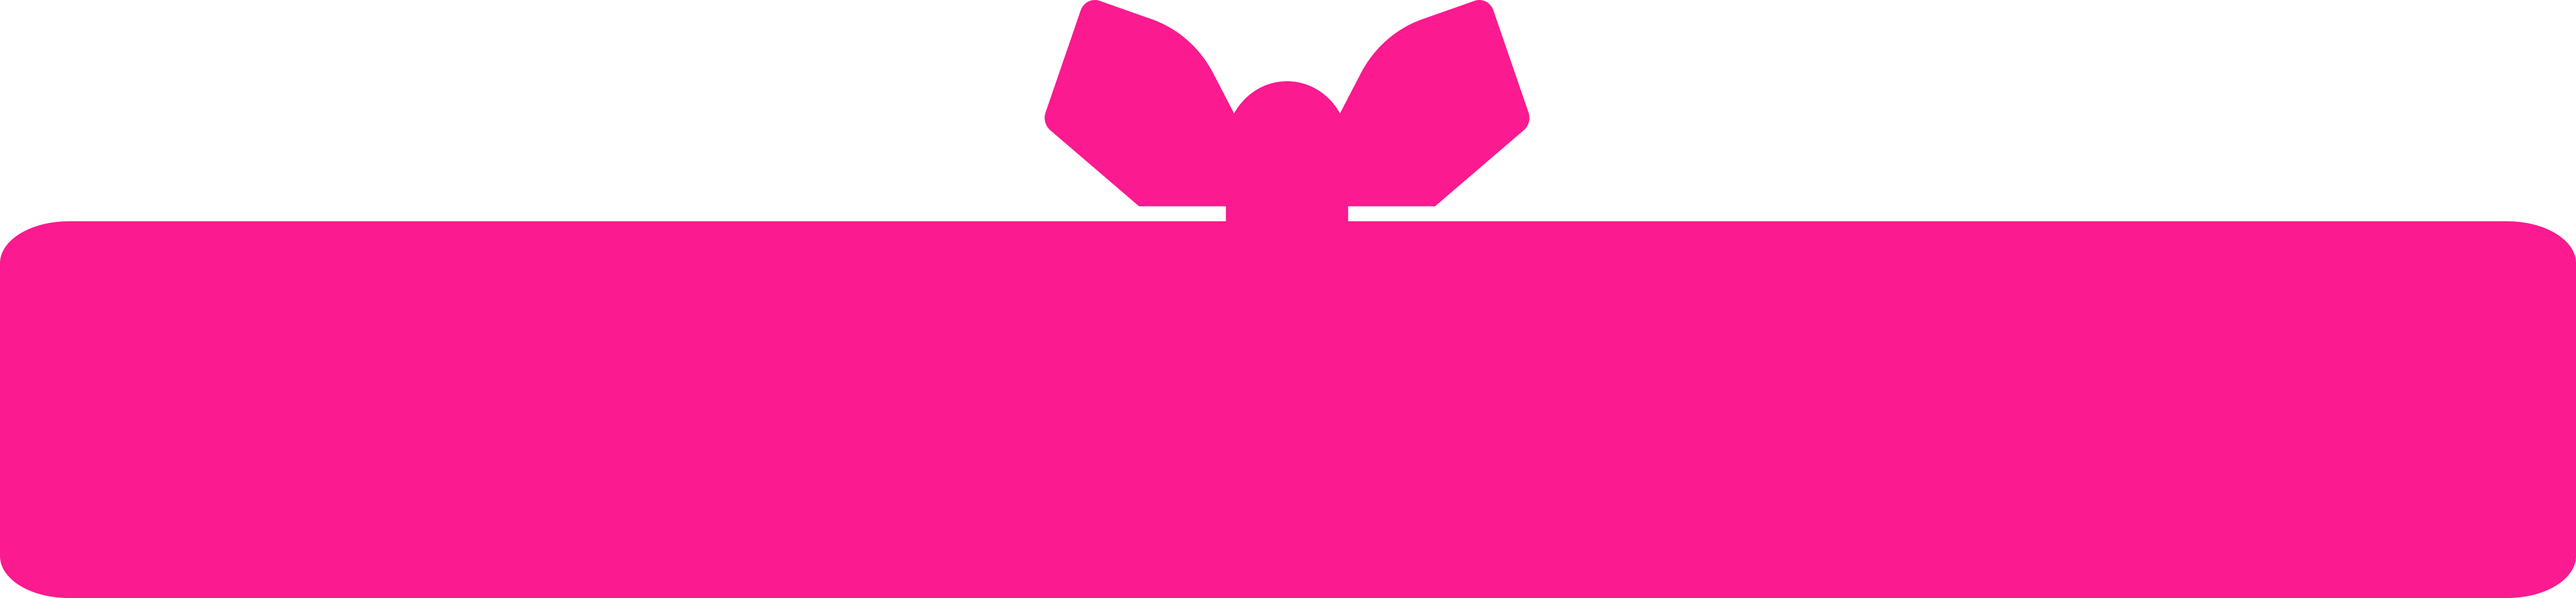
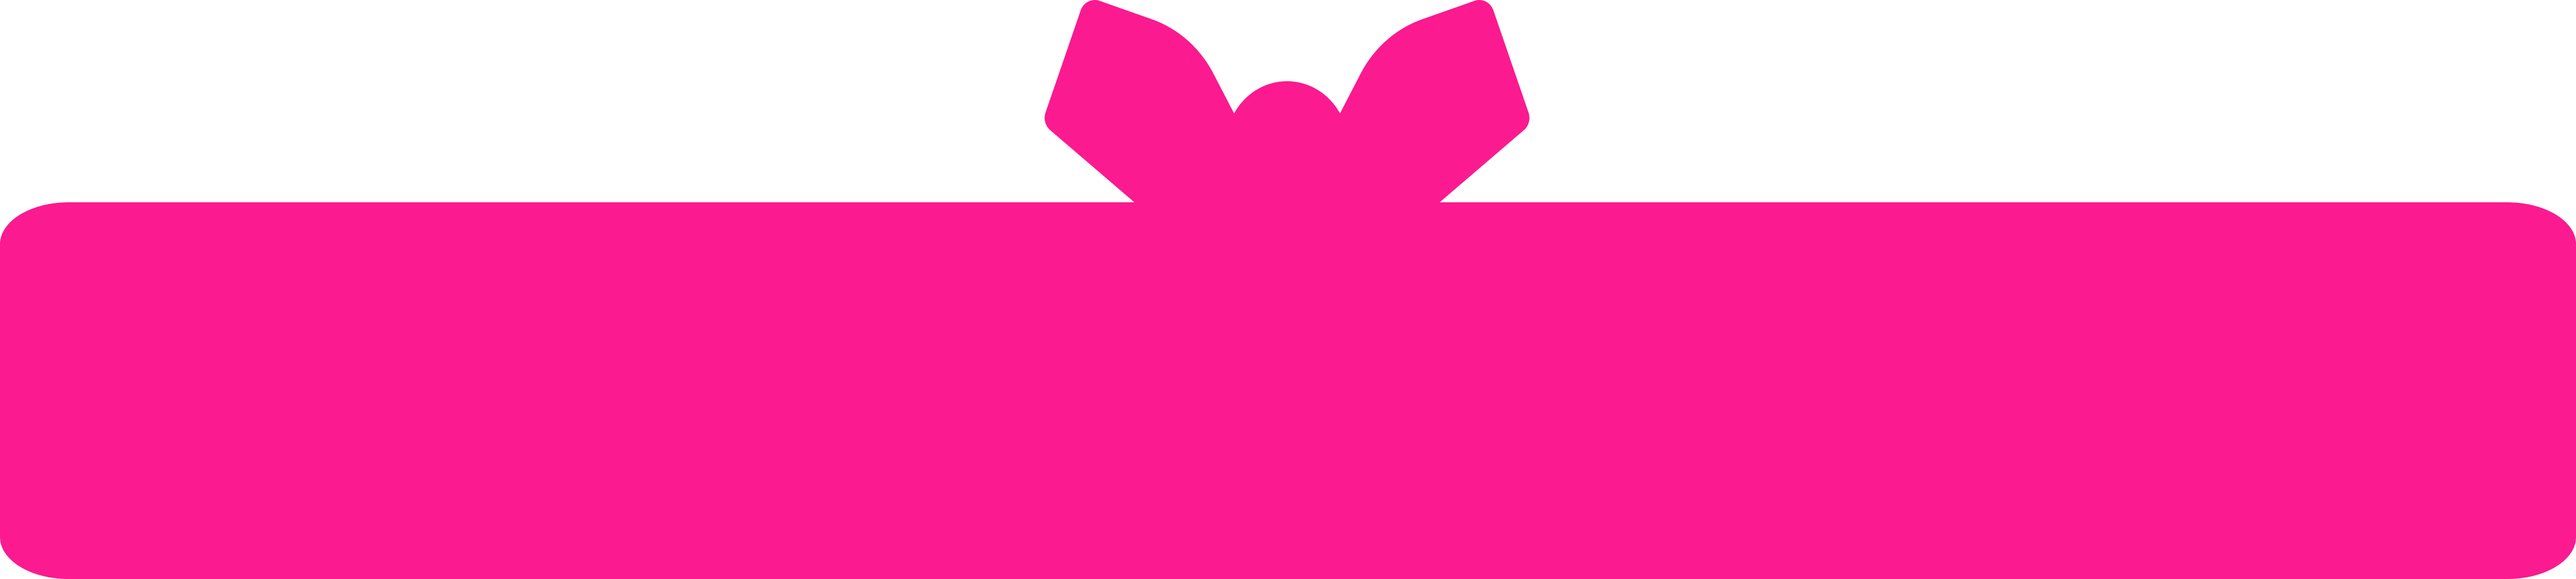
benerin subscribe section yang border bawahnya kurang melengkung dan mengganti pita

Changed region(s): [[0.0, 0.3381, 1.0, 0.4303], [0.4977, 0.123, 0.5288, 0.1537]]

diff --git a/article.css b/article.css
@@ -57,21 +57,32 @@ form.example::after {
 }
 
 .subscribe-article {
-    background: url('./img/article_background.png');
+  margin-top: 150px;
+  background-color: #fb1a8f;
+    /* background: url('./img/article_background.png'); */
     background-size: cover;
-    padding: 30px;
+    padding-bottom: 50px;
+    padding-top: 50px;
     margin-bottom: 300px !important;
     font-family: "Poppins", sans-serif !important;
+    border-radius: 30px;
+}
+
+
+.subscribe-article h4 {
+  font-size: 20px;
 }
 
 .subscribe-article form.example input[type="text"] {
     width: 30%;
-    float: left;
+    margin-left: 30%;
+    /* float: left; */
 }
-
 .subscribe-article form.example button {
     float: left;
+    width: 100px;
 }
+/*
 
 subscribe-article .example input[type="text"] {
     width: 20%;
@@ -80,22 +91,31 @@ subscribe-article .example input[type="text"] {
 subscribe-article .example button:hover {
     background: white !important;
     color: white !important;
-  }
+  } */
 
 @media only screen and (min-width: 768px) {
-    .subscribe-article .row{
-        margin-top: 120px;
-    }
-    .subscribe-article form.example input[type="text"] {
+    /* .subscribe-article form.example input[type="text"] {
         margin-left: 25%;
     }
+    */
+    .subscribe-article .row::before {
+      content: url("./img/Active.png");
+      position: absolute;
+      display: block;
+      -webkit-transform: translateY(-270px) translateX(250px) scale(0.2);
+      -moz-transform: translateY(-270px) translateX(250px) scale(0.2);
+    } 
 }
 
 @media screen and (min-width: 450px ) and (max-width:767px) {
-    .subscribe-article .row{
-        margin-top: 150px;
-    }
-    subscribe-article .example input[type="text"] {
+    /* subscribe-article .example input[type="text"] {
         width: 100% !important;
     }
+    .subscribe-article .row::before{
+      content: url("./img/Active.png");
+      position: absolute;
+      display: block;
+      -webkit-transform: translateY(-270px) translateX(15%) scale(0.2) !important;
+      -moz-transform: translateY(-270px) translateX(15%) scale(0.2) o !important;
+    } */
 }

diff --git a/article.html b/article.html
@@ -78,7 +78,7 @@
           </h4>
         </div>
         <div class="col-md-6">
-          <form class="example" action="action_page.php">
+          <form class="example" action="">
             <input
               type="text"
               placeholder="Cari artikel karya kadoin"
@@ -413,10 +413,36 @@
             </div>
           </div>
         </div>
+
+        <div class="load-more-articel text-center">
+          <button class="button-outline-pink mt-3 text-pink">Lebih Banyak</button>
+        </div>
       </div>
     </div>
 
-    <div class="container text-center subscribe-article mb-5 mt-5 text-white ">
+    <div class="container subscribe-article">
+      <div class="row text-center">
+        <div class="col-12 mb-3">
+          <h4 class="semiBold fontSpartan text-white">
+            Kirimkan saya penawaran menarik, ide kado unik, dan tips untuk personalisasi kado DIY!
+          </h4>
+        </div>
+        <div class="col-12">
+          <form class="example" action="">
+            <input
+              type="text"
+              placeholder="Cari artikel karya kadoin"
+              name="search"
+            />
+            <button type="submit" class="text-pink">
+               Subscribe
+            </button>
+          </form>
+        </div>
+      </div>
+    </div>
+
+    <!-- <div class="container text-center subscribe-article mb-5 mt-5 text-white ">
         <div class="row">
           <div class="col-md-12 mb-3">
             <h4 class="semiBold fontSpartan text-right">
@@ -436,7 +462,7 @@
             </form>
           </div>
         </div>
-      </div>
+      </div> -->
 
       <div class="footer">
         <div class="container">

diff --git a/style.css b/style.css
@@ -182,6 +182,18 @@ body {
   letter-spacing: 2px;
 }
 
+.button-outline-pink {
+  background-color: #fff;
+  border: 2px solid black;
+  border-color: #fb1a8f;
+  height: 50px;
+  border-radius: 40px;
+  color: white;
+  font-size: 16px;
+  width: 250px;
+  letter-spacing: 2px;
+}
+
 /* .footer-about {
   margin-bottom: 100px;
 } */

diff --git a/font.css b/font.css
@@ -17,6 +17,8 @@ a {
     color: #FB1A8F !important;
 }
 
+
+
 .light {
     font-weight: 300;
 }
